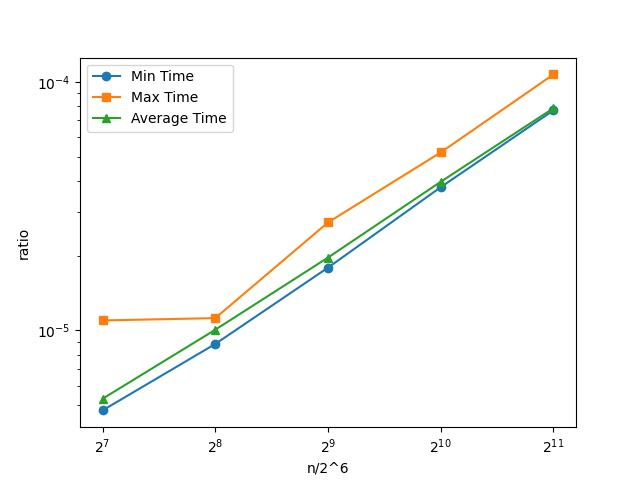
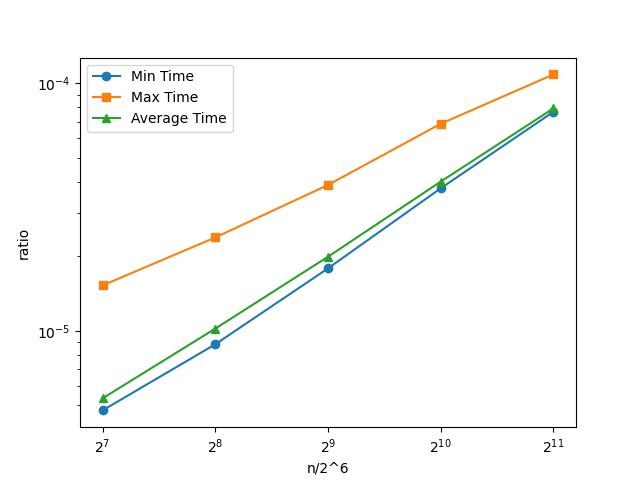
updating ratio

diff --git a/assignment1/20240454.py b/assignment1/20240454.py
@@ -24,22 +24,22 @@ def prefixAverages2(X, n):
     return A
 
 n = 2 ** 6
-slow = list()
-optimized = list()
-for _ in range(1000):
+slow = np.zeros(1000)
+optimized = np.zeros(1000)
+for i in range(1000):
     X = np.random.uniform(0, 1, n)
     start = time.time()
     prefixAverages1(X, n)
-    slow.append(time.time() - start)
+    slow[i] = time.time() - start
 
     start = time.time()
     prefixAverages2(X, n)
-    optimized.append(time.time() - start)
+    optimized[i] = time.time() - start
 
-plt.hist(slow, color='red', label='slow')
-plt.hist(optimized, color='green', label='optimized')
+plt.hist(slow / optimized, color='red', label='slow / optimized')
+# plt.hist(optimized, color='green', label='optimized')
 plt.legend()
-plt.xscale("log")
+# plt.xscale("log")
 plt.xlabel("Time")
 plt.ylabel("Freq")
 plt.savefig("./ratio_hist.jpg")
@@ -51,15 +51,21 @@ maxTime = list()
 avgTime = list()
 for i in range(6, 13):
     n = 2 ** i
+    slow = np.zeros(1000)
     optimized = np.zeros(1000)
     for j in range(1000):
         X = np.random.uniform(0, 1, n)
+        
+        start = time.time()
+        prefixAverages1(X, n)
+        slow[j] = time.time() - start
+        
         start = time.time()
         prefixAverages2(X, n)
         optimized[j] = time.time() - start
-    minTime.append(optimized.min())
-    maxTime.append(optimized.max())
-    avgTime.append(optimized.mean())
+    minTime.append(slow.min() / optimized.min())
+    maxTime.append(slow.max() / optimized.max())
+    avgTime.append(slow.mean() / optimized.mean())
     
 nSize = [2 ** i for i in range(6, 13)]
 
@@ -125,15 +131,20 @@ maxTime = list()
 avgTime = list()
 for i in range(7, 12):
     n = 2 ** i
+    slow = np.zeros(1000)
     optimized = np.zeros(1000)
     for j in range(1000):
         X = np.random.uniform(0, 1, n)
         start = time.time()
+        movingAverages1(X, n, k)
+        slow[j] = time.time() - start
+        
+        start = time.time()
         movingAverages2(X, n, k)
         optimized[j] = time.time() - start
-    minTime.append(optimized.min())
-    maxTime.append(optimized.max())
-    avgTime.append(optimized.mean())
+    minTime.append(slow.min() / optimized.min())
+    maxTime.append(slow.max() / optimized.max())
+    avgTime.append(slow.mean() / optimized.mean())
     
 nSize = [2 ** i for i in range(7, 12)]
 
@@ -154,7 +165,7 @@ plt.clf()
 def findMissing(A, n):
     return (n * (n - 1) / 2) - sum(A)
 
-six = list()
+six = np.array()
 n = 2 ** 6
 for _ in range(1000):
     A = list(range(n))
@@ -164,7 +175,7 @@ for _ in range(1000):
     findMissing(A, n)
     six.append(time.time() - start)
     
-seven = list()
+seven = np.array()
 n = 2 ** 7
 for _ in range(1000):
     A = list(range(n))
@@ -174,17 +185,17 @@ for _ in range(1000):
     findMissing(A, n)
     seven.append(time.time() - start)
 
-plt.subplot(121)
-plt.hist(six, color='red', label='2**6')
+# plt.subplot(121)
+plt.hist(seven / six, color='red', label='2**7 / 2**6')
 plt.legend()
 plt.xlabel("Time")
 plt.ylabel("Freq")
 
-plt.subplot(122)
-plt.hist(seven, color='green', label='2**7')
-plt.legend()
-plt.xlabel("Time")
-plt.ylabel("Freq")
+# plt.subplot(122)
+# plt.hist(seven, color='green', label='2**7')
+# plt.legend()
+# plt.xlabel("Time")
+# plt.ylabel("Freq")
 
 plt.savefig("./ratio_hist3.jpg")
 plt.clf()
@@ -200,11 +211,11 @@ for i in range(7, 12):
         start = time.time()
         findMissing(X, n)
         find[j] = time.time() - start
-    minTime.append(find.min())
-    maxTime.append(find.max())
-    avgTime.append(find.mean())
+    minTime.append(optimized.min())
+    maxTime.append(optimized.max())
+    avgTime.append(optimized.mean())
     
-nSize = [2 ** i for i in range(7, 12)]
+nSize = [f"2 ** {i} / 2 ** 6" for i in range(7, 12)]
 
 plt.plot(nSize, minTime, marker='o', label='Min Time')
 plt.plot(nSize, maxTime, marker='s', label='Max Time')
@@ -230,21 +241,62 @@ def countOnes(A, n):
     return cnt
 
 def countOnesButSlow(A, n):
-    pass
+    c = 0
+    for i in range(n):
+        j = 0
+        while j < n and A[i][j]:
+            c += 1
+            j += 1
+    return c
 
 n = 2 ** 6
 slow = list()
 optimized = list()
 for _ in range(1000):
-    A = np.zeros(n, n, dtype=int)
+    A = np.zeros((n, n))
     numOfOne = sorted(np.random.randint(0, n + 1, size=n), reverse=True)
     for i in range(0, n):
         A[i, :numOfOne[i]] = 1
     
     start = time.time()
-    movingAverages1(X, n, k)
+    countOnesButSlow(A, n)
     slow.append(time.time() - start)
 
     start = time.time()
     countOnes(A, n)
     optimized.append(time.time() - start)
+    
+plt.hist(slow, color='red', label='slow')
+plt.hist(optimized, color='green', label='optimized')
+plt.legend()
+plt.xscale("log")
+plt.xlabel("Time")
+plt.ylabel("Freq")
+plt.savefig("./ratio_hist4.jpg")
+
+minTime = list()
+maxTime = list()
+avgTime = list()
+for i in range(7, 13):
+    n = 2 ** i
+    find = np.zeros(1000)
+    for j in range(1000):
+        X = np.random.uniform(0, 1, n)
+        start = time.time()
+        countOnes(X, n)
+        find[j] = time.time() - start
+    minTime.append(find.min())
+    maxTime.append(find.max())
+    avgTime.append(find.mean())
+    
+nSize = [2 ** i for i in range(7, 13)]
+
+plt.plot(nSize, minTime, marker='o', label='Min Time')
+plt.plot(nSize, maxTime, marker='s', label='Max Time')
+plt.plot(nSize, avgTime, marker='^', label='Average Time')
+plt.xlabel("n/2^6")
+plt.ylabel("ratio")
+plt.xscale("log", base=2)
+plt.yscale("log")
+plt.legend()
+plt.savefig("./ratio plot3.jpg")
